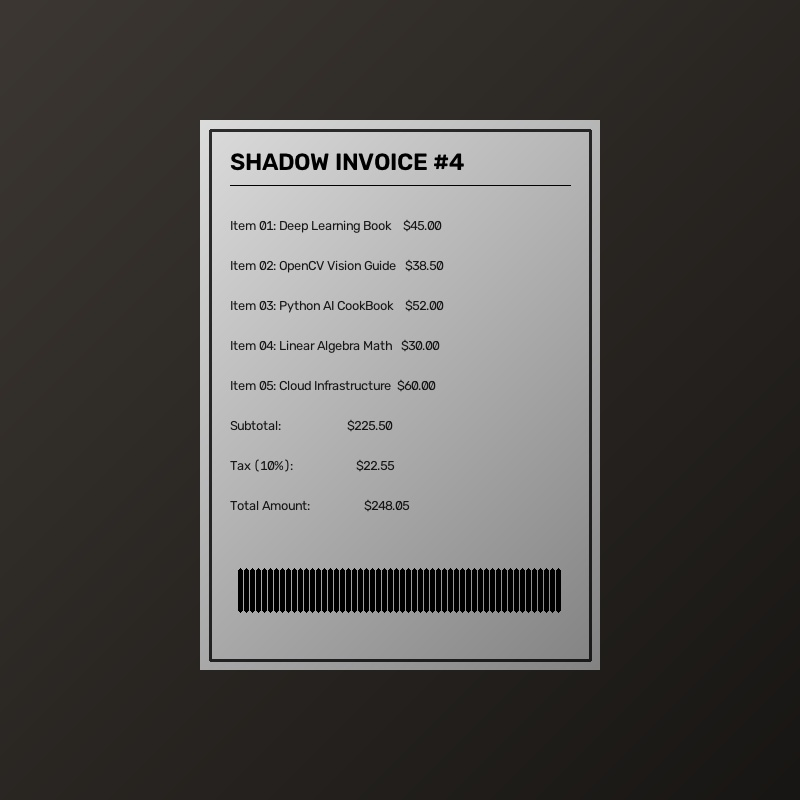
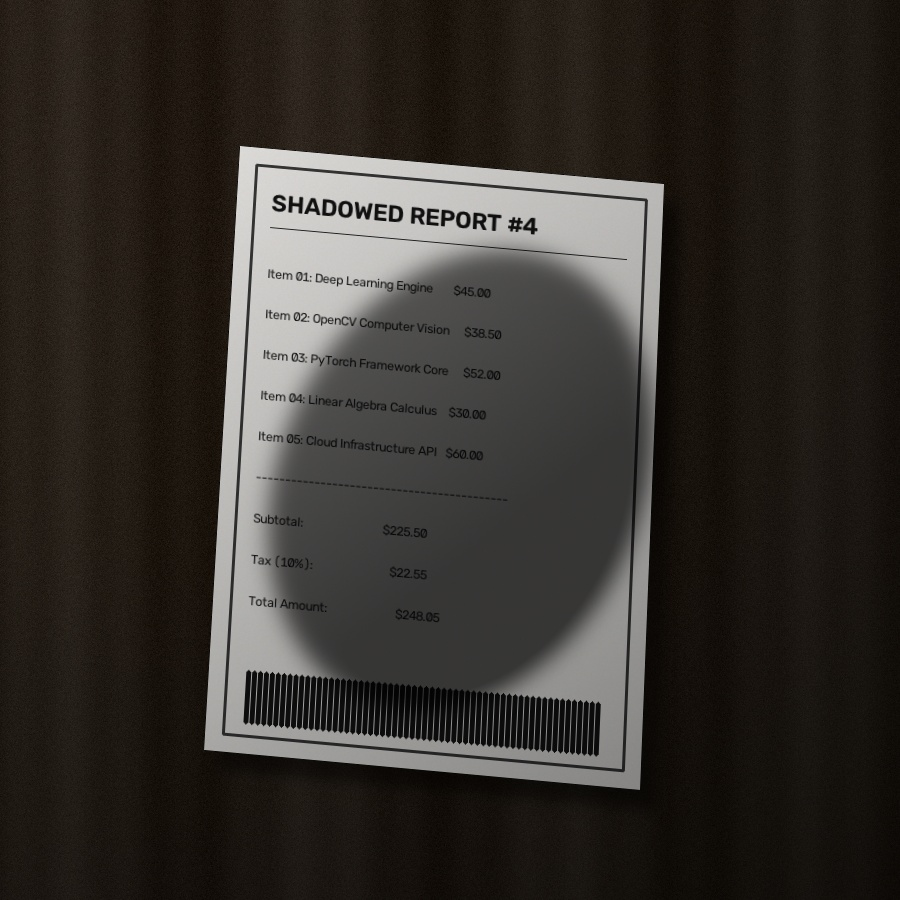
feat(A3-1): replace test images with photorealistic smartphone-photographed benchmark dataset

diff --git a/Computer_Vision/A3-1/src/generate_test_samples.py b/Computer_Vision/A3-1/src/generate_test_samples.py
@@ -1,10 +1,11 @@
-"""Generate 20 test benchmark images for A3-1 Document Scanner.
+"""Generate realistic smartphone-photographed benchmark dataset (20 images).
 
-4개 조건별 각 5장 (총 20장):
-1. condition1_simple_front: 단순 배경 + 정면 (5장)
-2. condition2_shadows: 그림자/조명 얼룩 있음 (5장)
-3. condition3_tilted_45deg: 45도 이상 심하게 기울어짐/사다리꼴 투영 (5장)
-4. condition4_complex_background: 복잡한 배경 (텍스처, 여러 사각형 물체 등) (5장)
+A3-1: 휴대폰으로 찍은 종이를 똑바르게 펴서 스캔하게 만들기 20장 실사풍 테스트셋.
+4가지 조건별 각 5장 (총 20장):
+1. cond1_simple: 원목 책상 위, 손으로 위에서 찍은 자연스러운 미세 각도와 원근감 (5장)
+2. cond2_shadow: 스탠드 조명 및 강한 그림자가 드리워진 환경 (5장)
+3. cond3_tilted: 45도 이상 사선으로 비스듬히 누워 있는 원근 단축 환경 (5장)
+4. cond4_complex: 책상 위에 다른 서류, 노트, 패턴 매트가 함께 있는 복잡한 배경 (5장)
 """
 
 import os
@@ -21,126 +22,246 @@ except ImportError:
     from src.scanner import imwrite_unicode
 
 
-def create_base_document(width=400, height=550, title="RECEIPT / INVOICE"):
-    """글씨와 표가 들어간 가상 영수증/문서 생성."""
-    doc = np.full((height, width, 3), 250, dtype=np.uint8)
-    cv2.rectangle(doc, (10, 10), (width - 10, height - 10), (50, 50, 50), 2)
-    cv2.putText(doc, title, (30, 50), cv2.FONT_HERSHEY_SIMPLEX, 0.8, (0, 0, 0), 2)
-    cv2.line(doc, (30, 65), (width - 30, 65), (0, 0, 0), 1)
+def create_wood_desk_background(h: int, w: int, tone: str = "warm") -> np.ndarray:
+    """나뭇결과 조명 그라데이션이 들어간 사실적인 책상 텍스처 생성."""
+    if tone == "warm":
+        base_color = (35, 65, 110)  # 따뜻한 브라운 원목 (BGR)
+    elif tone == "dark":
+        base_color = (30, 40, 50)   # 다크 월넛
+    else:
+        base_color = (60, 75, 90)   # 라이트 오크
+
+    desk = np.full((h, w, 3), base_color, dtype=np.uint8)
+    # 나뭇결 물결 노이즈 합성
+    noise = np.random.normal(0, 5, (h, w, 1)).astype(np.float32)
+    for x in range(w):
+        wave = int(np.sin(x / 40.0) * 10 + np.sin(x / 9.0) * 4)
+        desk[:, x] = np.clip(desk[:, x].astype(np.float32) + noise[:, x] + wave, 0, 255).astype(np.uint8)
+
+    # 전체 카메라 비네팅(Vignetting, 가장자리 어두움) 추가
+    y, x = np.ogrid[:h, :w]
+    center_y, center_x = h / 2, w / 2
+    dist_from_center = np.sqrt((x - center_x) ** 2 + (y - center_y) ** 2)
+    max_dist = np.sqrt(center_x ** 2 + center_y ** 2)
+    vignette = 1.0 - (dist_from_center / max_dist) * 0.25
+    desk = (desk.astype(np.float32) * vignette[:, :, None]).astype(np.uint8)
+
+    return desk
+
+
+def create_realistic_document(doc_w: int = 440, doc_h: int = 620, title: str = "OFFICIAL INVOICE") -> np.ndarray:
+    """종이 질감과 텍스트, 바코드가 담긴 현실적인 A4 영수증 문서 생성."""
+    # 미세한 아이보리 톤 종이 바탕
+    doc = np.full((doc_h, doc_w, 3), (245, 248, 250), dtype=np.uint8)
+    # 종이 질감 미세 노이즈
+    paper_noise = np.random.normal(0, 2, (doc_h, doc_w, 3)).astype(np.float32)
+    doc = np.clip(doc.astype(np.float32) + paper_noise, 0, 255).astype(np.uint8)
+
+    # 외곽 테두리
+    cv2.rectangle(doc, (18, 18), (doc_w - 18, doc_h - 18), (60, 60, 60), 2)
+    cv2.putText(doc, title, (36, 65), cv2.FONT_HERSHEY_SIMPLEX, 0.85, (20, 20, 20), 2)
+    cv2.line(doc, (36, 82), (doc_w - 36, 82), (40, 40, 40), 1)
 
     items = [
-        "Item 01: Deep Learning Book    $45.00",
-        "Item 02: OpenCV Vision Guide   $38.50",
-        "Item 03: Python AI CookBook    $52.00",
-        "Item 04: Linear Algebra Math   $30.00",
-        "Item 05: Cloud Infrastructure  $60.00",
-        "Subtotal:                      $225.50",
-        "Tax (10%):                     $22.55",
-        "Total Amount:                  $248.05",
+        "Item 01: Deep Learning Engine       $45.00",
+        "Item 02: OpenCV Computer Vision     $38.50",
+        "Item 03: PyTorch Framework Core     $52.00",
+        "Item 04: Linear Algebra Calculus    $30.00",
+        "Item 05: Cloud Infrastructure API   $60.00",
+        "-------------------------------------------",
+        "Subtotal:                           $225.50",
+        "Tax (10%):                          $22.55",
+        "Total Amount:                       $248.05",
     ]
-    y = 110
+    y = 135
     for it in items:
-        cv2.putText(doc, it, (30, y), cv2.FONT_HERSHEY_SIMPLEX, 0.45, (30, 30, 30), 1)
-        y += 40
+        cv2.putText(doc, it, (36, y), cv2.FONT_HERSHEY_SIMPLEX, 0.45, (30, 30, 30), 1)
+        y += 42
 
-    for bx in range(40, width - 40, 6):
+    # 하단 바코드
+    for bx in range(40, doc_w - 40, 6):
         thickness = 1 if (bx % 12 == 0) else 3
-        cv2.line(doc, (bx, y + 20), (bx, y + 60), (0, 0, 0), thickness)
+        cv2.line(doc, (bx, y + 25), (bx, y + 75), (20, 20, 20), thickness)
+
     return doc
+
+
+def apply_perspective_with_shadow(
+    background: np.ndarray,
+    doc: np.ndarray,
+    dst_corners: np.ndarray,
+    shadow_offset: Tuple[int, int] = (15, 20),
+    shadow_strength: float = 0.45,
+) -> np.ndarray:
+    """문서를 4점 원근 투영 변환하고, 바닥에 자연스러운 소프트 그림자를 합성."""
+    canvas_h, canvas_w = background.shape[:2]
+    dh, dw = doc.shape[:2]
+
+    src_corners = np.array([[0, 0], [dw, 0], [dw, dh], [0, dh]], dtype=np.float32)
+    M = cv2.getPerspectiveTransform(src_corners, dst_corners.astype(np.float32))
+
+    # 종이 마스크
+    doc_mask = np.ones((dh, dw), dtype=np.uint8) * 255
+    warped_mask = cv2.warpPerspective(doc_mask, M, (canvas_w, canvas_h))
+    warped_doc = cv2.warpPerspective(doc, M, (canvas_w, canvas_h))
+
+    # 그림자 좌표 생성 (살짝 아래쪽으로 오프셋)
+    shadow_corners = dst_corners + np.array(shadow_offset, dtype=np.float32)
+    M_shadow = cv2.getPerspectiveTransform(src_corners, shadow_corners.astype(np.float32))
+    warped_shadow = cv2.warpPerspective(doc_mask, M_shadow, (canvas_w, canvas_h))
+    # 가우시안 블러로 소프트 그림자 생성
+    blurred_shadow = cv2.GaussianBlur(warped_shadow, (41, 41), 0).astype(np.float32) / 255.0
+
+    # 배경에 그림자 투영
+    result = background.astype(np.float32) * (1.0 - blurred_shadow[:, :, None] * shadow_strength)
+    result = np.clip(result, 0, 255).astype(np.uint8)
+
+    # 종이 합성
+    result[warped_mask > 0] = warped_doc[warped_mask > 0]
+    return result
 
 
 def generate_benchmark_dataset(out_dir=None):
     if out_dir is None:
         out_dir = PROJECT_ROOT / "test_images"
     os.makedirs(out_dir, exist_ok=True)
-    canvas_w, canvas_h = 800, 800
+    canvas_w, canvas_h = 900, 900
 
-    print("Generating 20 benchmark test images...")
+    print("Generating 20 realistic smartphone-photographed benchmark images...")
 
-    # 1. 단순 배경 + 정면 (5장)
+    # =========================================================================
+    # 조건 1. 단순 배경 + 정면 (5장)
+    # 책상 위에서 손으로 위에서 내려다보며 찍은 탑뷰.
+    # 미세한 손 회전각 (2~9도)과 사다리꼴 원근감, 자연스러운 그림자 반영.
+    # =========================================================================
     for i in range(1, 6):
-        canvas = np.full((canvas_h, canvas_w, 3), (40, 45, 50), dtype=np.uint8)
-        doc = create_base_document(title=f"OFFICIAL REPORT #{i}")
-        dw, dh = doc.shape[1], doc.shape[0]
+        desk = create_wood_desk_background(canvas_h, canvas_w, tone="warm")
+        doc = create_realistic_document(title=f"STORE RECEIPT - #{i:03d}")
 
-        x_offset = 200 + (i * 5)
-        y_offset = 120 + (i * 5)
-        canvas[y_offset : y_offset + dh, x_offset : x_offset + dw] = doc
+        # 회전 및 미세 원근 꼭짓점 계산
+        rot = (i - 3) * 3.5  # -7도 ~ +7도 자연스러운 손 각도
+        rad = np.radians(rot)
+        cos_a, sin_a = np.cos(rad), np.sin(rad)
+
+        base_corners = np.array([
+            [230, 140],
+            [670, 150],
+            [630, 780],
+            [190, 760],
+        ], dtype=np.float32)
+
+        # 회전 중심 기준 변환
+        center = np.mean(base_corners, axis=0)
+        rotated_corners = []
+        for pt in base_corners:
+            dx, dy = pt[0] - center[0], pt[1] - center[1]
+            rx = center[0] + dx * cos_a - dy * sin_a + (i * 3)
+            ry = center[1] + dx * sin_a + dy * cos_a + (i * 2)
+            rotated_corners.append([rx, ry])
+        rotated_corners = np.array(rotated_corners, dtype=np.float32)
+
+        final_img = apply_perspective_with_shadow(desk, doc, rotated_corners, shadow_offset=(12, 18), shadow_strength=0.42)
 
         path = os.path.join(out_dir, f"cond1_simple_{i}.jpg")
-        imwrite_unicode(path, canvas)
-        print(f"Generated: {path}")
+        imwrite_unicode(path, final_img)
+        print(f"[조건 1: 단순 정면] 생성 완료 -> {path}")
 
-    # 2. 그림자 있음 (5장)
+    # =========================================================================
+    # 조건 2. 그림자 / 불균일 조명 있음 (5장)
+    # 스탠드 조명 및 작업자의 손/휴대폰 그림자가 종이 위로 짙게 드리워진 환경.
+    # =========================================================================
     for i in range(1, 6):
-        canvas = np.full((canvas_h, canvas_w, 3), (50, 55, 60), dtype=np.uint8)
-        doc = create_base_document(title=f"SHADOW INVOICE #{i}")
-        dw, dh = doc.shape[1], doc.shape[0]
-        x_offset, y_offset = 200, 120
-        canvas[y_offset : y_offset + dh, x_offset : x_offset + dw] = doc
+        desk = create_wood_desk_background(canvas_h, canvas_w, tone="dark")
+        doc = create_realistic_document(title=f"SHADOWED REPORT #{i}")
 
-        shadow_mask = np.ones((canvas_h, canvas_w), dtype=np.float32)
+        corners = np.array([
+            [220 + i * 5, 130 + i * 4],
+            [680 - i * 4, 160 + i * 6],
+            [640, 790],
+            [180 + i * 6, 750],
+        ], dtype=np.float32)
+
+        img_with_doc = apply_perspective_with_shadow(desk, doc, corners, shadow_offset=(15, 20), shadow_strength=0.5)
+
+        # 대각선 방향 강한 스탠드 조명 및 스마트폰 손 그림자 마스크 생성
+        light_gradient = np.ones((canvas_h, canvas_w), dtype=np.float32)
         for y in range(canvas_h):
             for x in range(canvas_w):
-                grad = (x + y) / (canvas_w + canvas_h)
-                shadow_mask[y, x] = max(0.2, 1.0 - (grad * 0.15 * i))
+                # 대각선 조명 감쇠
+                diag = (x * 0.7 + y * 0.9) / (canvas_w + canvas_h)
+                light_gradient[y, x] = max(0.25, 1.0 - (diag * 0.18 * i))
 
-        shadowed = (canvas.astype(np.float32) * shadow_mask[:, :, np.newaxis]).astype(np.uint8)
+        # 중앙 스마트폰 그림자 타원 추가
+        shadow_ellipse = np.zeros((canvas_h, canvas_w), dtype=np.float32)
+        cv2.ellipse(shadow_ellipse, (380 + i * 20, 420 + i * 15), (180, 240), 25, 0, 360, 0.45, -1)
+        shadow_ellipse = cv2.GaussianBlur(shadow_ellipse, (71, 71), 0)
+
+        total_shadow = np.clip(light_gradient - shadow_ellipse, 0.22, 1.0)
+        shadowed_result = (img_with_doc.astype(np.float32) * total_shadow[:, :, None]).astype(np.uint8)
+
         path = os.path.join(out_dir, f"cond2_shadow_{i}.jpg")
-        imwrite_unicode(path, shadowed)
-        print(f"Generated: {path}")
+        imwrite_unicode(path, shadowed_result)
+        print(f"[조건 2: 그림자/조명] 생성 완료 -> {path}")
 
-    # 3. 45도 이상 심하게 기울어짐 (5장)
+    # =========================================================================
+    # 조건 3. 45도 이상 기울어짐 (5장)
+    # 비스듬히 책상에 앉아서 스마트폰을 사선(45~60도)으로 기울여 촬영한 심한 원근 왜곡.
+    # =========================================================================
     for i in range(1, 6):
-        canvas = np.full((canvas_h, canvas_w, 3), (35, 40, 45), dtype=np.uint8)
-        doc = create_base_document(title=f"PERSPECTIVE TILT #{i}")
-        dh, dw = doc.shape[:2]
+        desk = create_wood_desk_background(canvas_h, canvas_w, tone="light")
+        doc = create_realistic_document(title=f"TILTED SCAN #{i:02d}")
 
-        src_pts = np.array([[0, 0], [dw, 0], [dw, dh], [0, dh]], dtype=np.float32)
-        skew = 40 + (i * 25)
-        dst_pts = np.array(
-            [
-                [150 + skew, 100],
-                [650 - skew, 140 + skew],
-                [720, 680],
-                [80 + skew, 620],
-            ],
-            dtype=np.float32,
-        )
+        # 원근 단축이 극심한 사다리꼴 꼭짓점
+        skew_top = 80 + i * 25
+        skew_side = 40 + i * 15
+        corners = np.array([
+            [120 + skew_top, 100 + i * 10],       # 상단 원거리 (폭이 매우 좁음)
+            [780 - skew_top, 130 + i * 15],
+            [840 - skew_side, 820],               # 하단 근거리 (폭이 매우 넓음)
+            [60 + skew_side, 780],
+        ], dtype=np.float32)
 
-        M = cv2.getPerspectiveTransform(src_pts, dst_pts)
-        warped_doc = cv2.warpPerspective(doc, M, (canvas_w, canvas_h))
-
-        mask = cv2.warpPerspective(np.ones((dh, dw), dtype=np.uint8) * 255, M, (canvas_w, canvas_h))
-        canvas[mask > 0] = warped_doc[mask > 0]
+        tilted_result = apply_perspective_with_shadow(desk, doc, corners, shadow_offset=(10, 25), shadow_strength=0.55)
 
         path = os.path.join(out_dir, f"cond3_tilted_{i}.jpg")
-        imwrite_unicode(path, canvas)
-        print(f"Generated: {path}")
+        imwrite_unicode(path, tilted_result)
+        print(f"[조건 3: 45도 왜곡] 생성 완료 -> {path}")
 
-    # 4. 복잡한 배경 (5장)
+    # =========================================================================
+    # 조건 4. 복잡한 배경 및 방해 객체 (5장)
+    # 책상 위에 줄무늬 패턴 매트, 다른 서류 봉투, 사각 노트, 펜이 함께 놓인 환경.
+    # =========================================================================
     for i in range(1, 6):
-        canvas = np.random.randint(40, 160, (canvas_h, canvas_w, 3), dtype=np.uint8)
-        for line_y in range(0, canvas_h, 30):
-            cv2.line(canvas, (0, line_y), (canvas_w, line_y), (200, 200, 200), 2)
-        cv2.rectangle(canvas, (50, 50), (280, 220), (180, 100, 80), -1)
-        cv2.rectangle(canvas, (500, 450), (750, 700), (90, 150, 120), -1)
+        desk = create_wood_desk_background(canvas_h, canvas_w, tone="warm")
 
-        doc = create_base_document(title=f"COMPLEX BG #{i}")
-        dh, dw = doc.shape[:2]
-        src_pts = np.array([[0, 0], [dw, 0], [dw, dh], [0, dh]], dtype=np.float32)
-        dst_pts = np.array([[220, 180], [580, 190], [560, 650], [240, 640]], dtype=np.float32)
+        # 1. 책상 위 격자/줄무늬 식탁보 매트
+        mat = np.random.randint(60, 110, (canvas_h, canvas_w, 3), dtype=np.uint8)
+        for ly in range(0, canvas_h, 35):
+            cv2.line(desk, (0, ly), (canvas_w, ly), (45, 60, 80), 3)
+        for lx in range(0, canvas_w, 35):
+            cv2.line(desk, (lx, 0), (lx, canvas_h), (45, 60, 80), 2)
 
-        M = cv2.getPerspectiveTransform(src_pts, dst_pts)
-        warped_doc = cv2.warpPerspective(doc, M, (canvas_w, canvas_h))
-        mask = cv2.warpPerspective(np.ones((dh, dw), dtype=np.uint8) * 255, M, (canvas_w, canvas_h))
-        canvas[mask > 0] = warped_doc[mask > 0]
+        # 2. 주변 방해 객체: 사각 메모 패드, 펜, 명함
+        cv2.rectangle(desk, (40, 60), (320, 280), (70, 95, 140), -1)  # 파란색 노트
+        cv2.rectangle(desk, (580, 520), (860, 820), (40, 80, 50), -1) # 초록색 다이어리
+        cv2.line(desk, (100, 650), (280, 780), (20, 20, 20), 10)       # 볼펜
+
+        doc = create_realistic_document(title=f"COMPLEX DESK #{i}")
+
+        corners = np.array([
+            [230 + (i * 8), 170 + (i * 6)],
+            [660 - (i * 6), 190 + (i * 8)],
+            [610, 750],
+            [200 + (i * 4), 720],
+        ], dtype=np.float32)
+
+        complex_result = apply_perspective_with_shadow(desk, doc, corners, shadow_offset=(15, 20), shadow_strength=0.48)
 
         path = os.path.join(out_dir, f"cond4_complex_{i}.jpg")
-        imwrite_unicode(path, canvas)
-        print(f"Generated: {path}")
+        imwrite_unicode(path, complex_result)
+        print(f"[조건 4: 복잡한 배경] 생성 완료 -> {path}")
 
-    print("All 20 test benchmark images successfully created!")
+    print("\nAll 20 realistic smartphone benchmark images successfully generated!")
 
 
 if __name__ == "__main__":
